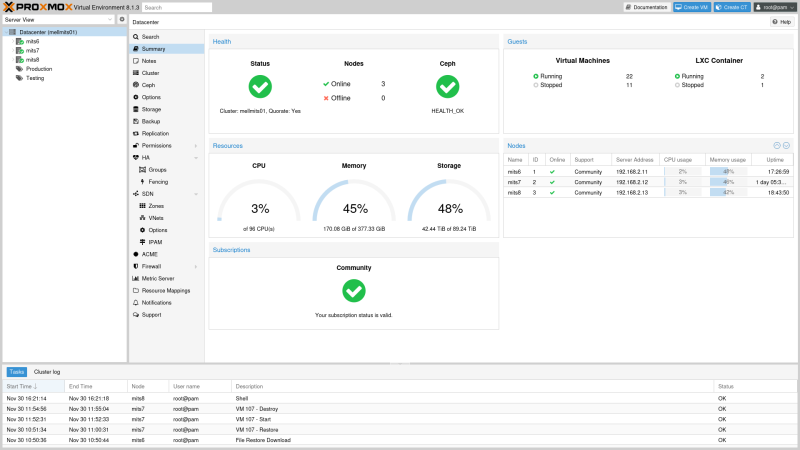
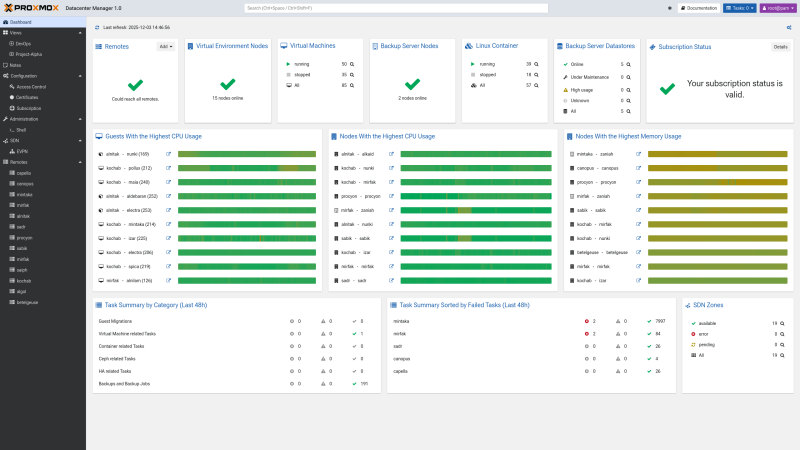
feat: Update screenshot (#5)

diff --git a/readme.md b/readme.md
@@ -88,32 +88,6 @@ volumes:
 
   Yes, see our [dockur/proxmox](https://github.com/dockur/proxmox) repository.
 
-### How do I verify if my system supports the KVM virtualization used by Proxmox?
-
-  First check if your software is compatible using this chart:
-
-  | **Product**  | **Linux** | **Win11** | **Win10** | **macOS** |
-  |---|---|---|---|---|
-  | Docker CLI        | ✅   | ✅       | ❌        | ❌ |
-  | Docker Desktop    | ❌   | ✅       | ❌        | ❌ | 
-  | Podman CLI        | ✅   | ✅       | ❌        | ❌ | 
-  | Podman Desktop    | ✅   | ✅       | ❌        | ❌ | 
-
-  After that you can run the following commands in Linux to check your system:
-
-  ```bash
-  sudo apt install cpu-checker
-  sudo kvm-ok
-  ```
-
-  If you receive an error from `kvm-ok` indicating that KVM cannot be used, please check whether:
-
-  - the virtualization extensions (`Intel VT-x` or `AMD SVM`) are enabled in your BIOS.
-
-  - you enabled "nested virtualization" if you are running the container inside a virtual machine.
-
-  - you are not using a cloud provider, as most of them do not allow nested virtualization for their VPS's.
-
 ## Acknowledgements 🙏
 
 Special thanks to [LongQT-sea](https://github.com/LongQT-sea), this project would not exist without his invaluable work.